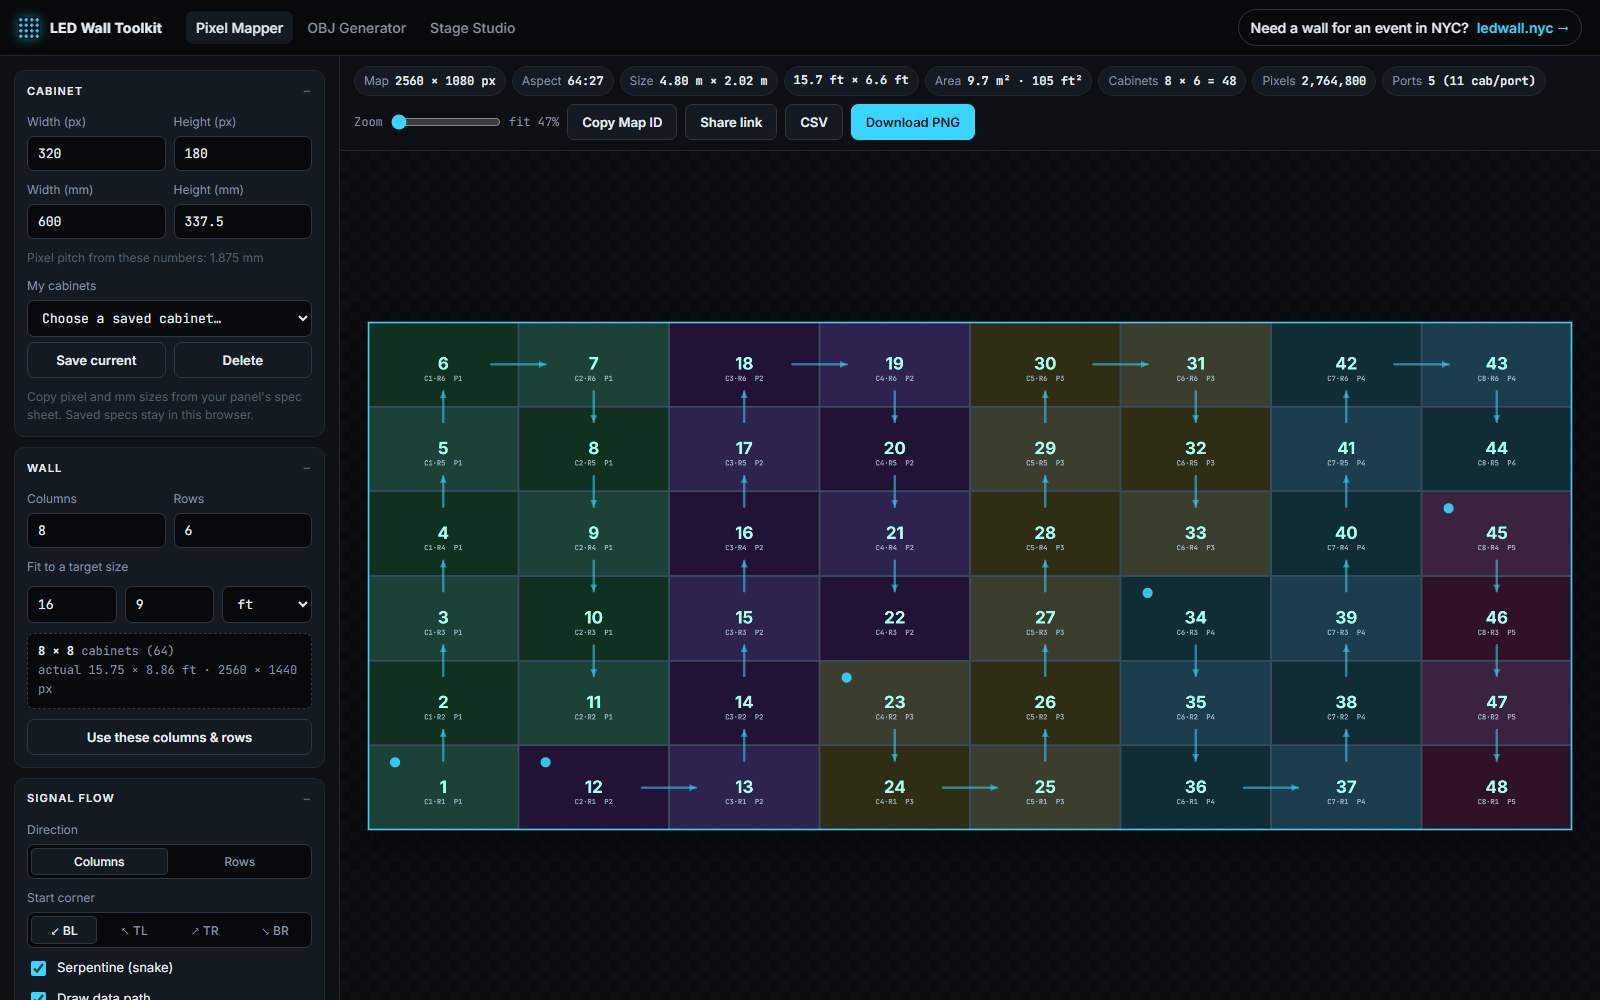
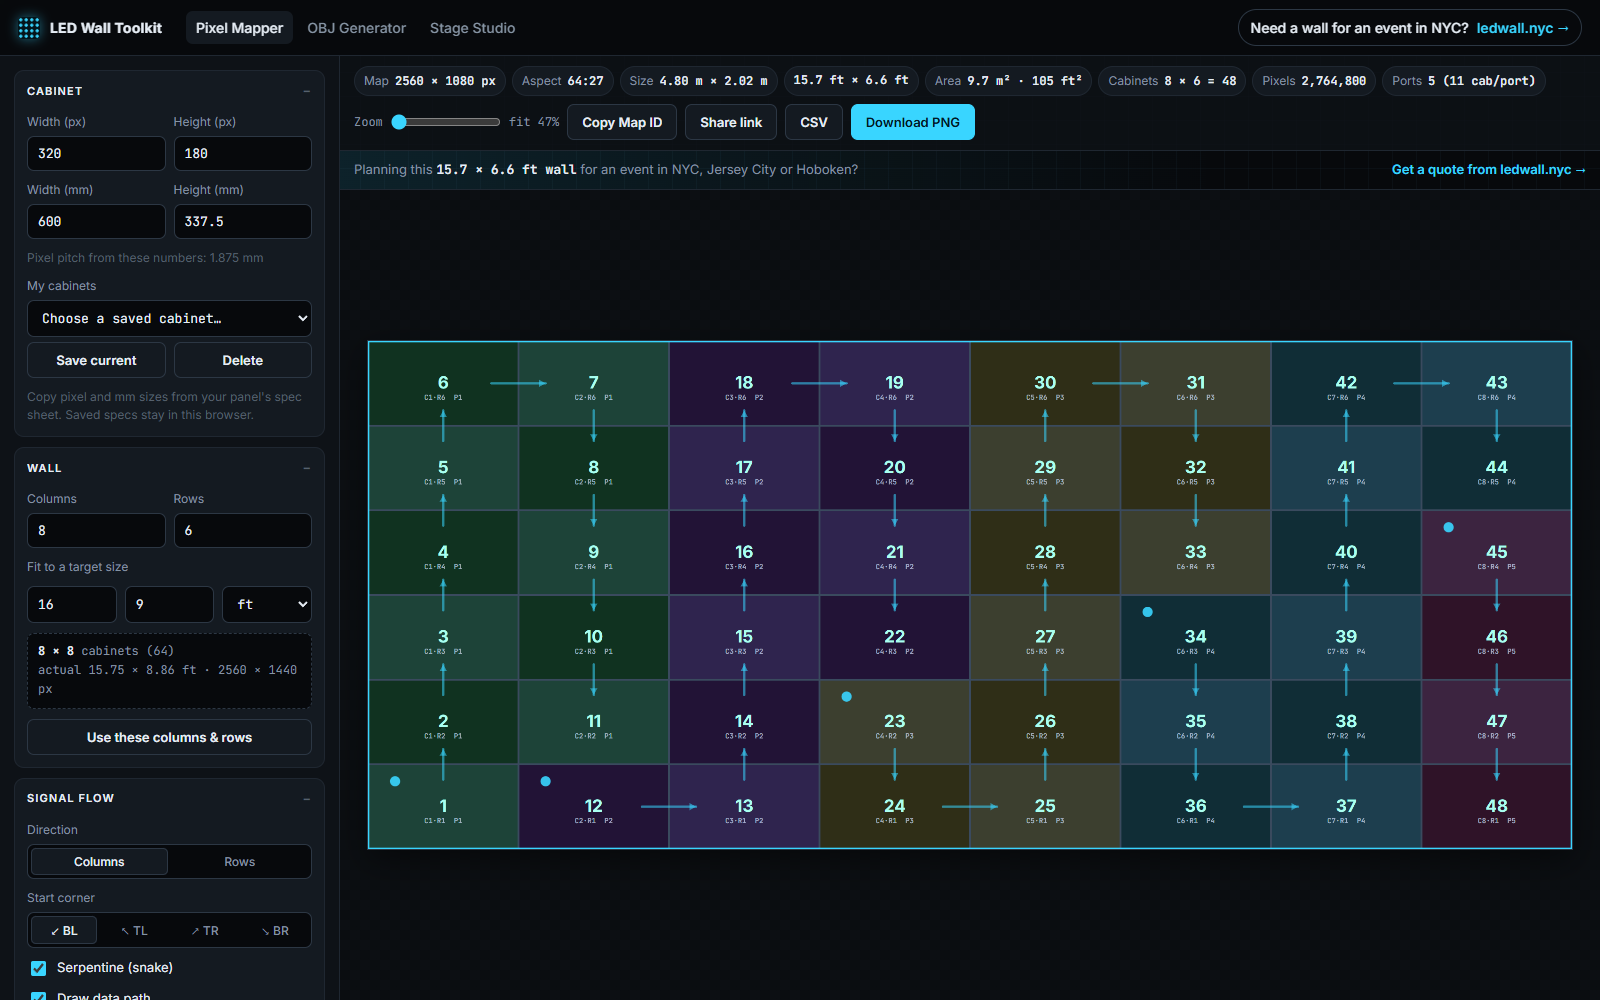
Fix stale OBJ exports, neutral file name, quote link in Pixel Mapper
- OBJ Generator: OBJ/MTL/ZIP downloads now rebuild from the current form,
  so changing units without pressing Generate no longer exports old units.
- Default model file name is led_wall.
- Pixel Mapper: link under the toolbar shows the planned wall size and
  points to ledwall.nyc/contact for NYC-area quotes.
- Refreshed README screenshot.

Claude-Session: https://claude.ai/code/session_01JyhWy7MXQNSgjwJ6siy76b

Changed region(s): [[0.2188, 0.31, 1.0, 0.868], [0.1875, 0.155, 0.5312, 0.186], [0.875, 0.155, 0.9688, 0.186]]

diff --git a/obj-generator.html b/obj-generator.html
@@ -107,7 +107,7 @@
     <details class="group" open>
       <summary>Export</summary>
       <div class="group-body">
-        <label class="field"><span>File name</span><input type="text" id="modelName" value="ledwall" placeholder="ledwall" spellcheck="false"></label>
+        <label class="field"><span>File name</span><input type="text" id="modelName" value="led_wall" placeholder="led_wall" spellcheck="false"></label>
         <label class="field"><span>OBJ units</span>
           <select id="coordSystem">
             <option value="mm">Millimeters (real scale)</option>
@@ -321,7 +321,7 @@
   // ---------- state ----------
   const state = {
     scene: null, camera: null, renderer: null, controls: null, grid: null,
-    mesh: null, objData: null, mtlData: null, modelName: 'ledwall',
+    mesh: null, objData: null, mtlData: null, modelName: 'led_wall',
     wireframeMode: false, textureUrl: null
   };
 
@@ -391,7 +391,7 @@
     const v = int ? parseInt($(id).value, 10) : parseFloat($(id).value);
     return Number.isFinite(v) ? Math.max(min, v) : fallback;
   }
-  const safeName = (s) => String(s || '').trim().replace(/[^\w.-]+/g, '_').replace(/^\.+/, '') || 'ledwall';
+  const safeName = (s) => String(s || '').trim().replace(/[^\w.-]+/g, '_').replace(/^\.+/, '') || 'led_wall';
 
   function getSettings() {
     const layoutType = getSeg(layoutSeg) === 'u-shape' ? 'u-shape' : 'flat';
@@ -425,7 +425,7 @@
     set('cols', s.cols, 4);
     set('rows', s.rows, 3);
     set('gap', s.gap, 0);
-    set('modelName', s.modelName, 'ledwall');
+    set('modelName', s.modelName, 'led_wall');
     const units = ['mm', 'm', 'in', 'ft', 'normalized'];
     $('coordSystem').value = units.includes(s.coordSystem) ? s.coordSystem : 'mm';
     setSeg(layoutSeg, s.layoutType === 'u-shape' ? 'u-shape' : 'flat');
@@ -724,16 +724,23 @@
     applyWireframe();
   });
 
+  // Exports always reflect the form as it is now, even if Generate wasn't pressed again.
+  function refreshExport() {
+    if (!state.objData) return false;
+    generateModel({ reframe: false });
+    return !!state.objData;
+  }
+
   $('downloadOBJ').addEventListener('click', () => {
-    if (!state.objData) return;
+    if (!refreshExport()) return;
     downloadBlob(new Blob([state.objData], { type: 'text/plain' }), `${state.modelName}.obj`);
   });
   $('downloadMTL').addEventListener('click', () => {
-    if (!state.mtlData) return;
+    if (!refreshExport()) return;
     downloadBlob(new Blob([state.mtlData], { type: 'text/plain' }), `${state.modelName}.mtl`);
   });
   $('downloadZIP').addEventListener('click', async () => {
-    if (!state.objData) return;
+    if (!refreshExport()) return;
     const enc = new TextEncoder();
     const name = state.modelName;
     const files = [

diff --git a/pixel-mapper.html b/pixel-mapper.html
@@ -22,6 +22,14 @@
     .warn { color: var(--warn); font-size: 12px; margin: 0; }
     .zoom { display: inline-flex; align-items: center; gap: 6px; color: var(--muted); font: 12px var(--mono); }
     .zoom input { width: 110px; }
+    .quote {
+      display: flex; flex-wrap: wrap; gap: 6px 14px; align-items: center; justify-content: space-between;
+      padding: 9px 14px; border-bottom: 1px solid var(--line); color: var(--muted); font-size: 13px;
+      background: linear-gradient(90deg, var(--accent-soft), transparent 70%);
+    }
+    .quote:hover { text-decoration: none; color: var(--text); }
+    .quote b { color: var(--text); font-family: var(--mono); font-weight: 600; }
+    .quote-go { color: var(--accent); font-weight: 600; white-space: nowrap; }
   </style>
 </head>
 <body>
@@ -199,6 +207,10 @@
       <button type="button" class="btn" id="dlCsv">CSV</button>
       <button type="button" class="btn primary" id="dlPng">Download PNG</button>
     </div>
+    <a class="quote" id="quote" href="https://ledwall.nyc/contact?utm_source=github&utm_medium=toolkit&utm_campaign=pixel-mapper" target="_blank" rel="noopener">
+      <span>Planning this <b id="quoteSize">wall</b> for an event in NYC, Jersey City or Hoboken?</span>
+      <span class="quote-go">Get a quote from ledwall.nyc →</span>
+    </a>
     <div class="viewport" id="viewport"><canvas id="map"></canvas></div>
   </section>
 </div>
@@ -594,6 +606,7 @@
       [`Days at ${s.dayHours} h`, `${(hours / s.dayHours).toFixed(2)} → ${Math.max(1, Math.ceil(hours / s.dayHours))}`]
     ]);
     $('brandScaleOut').textContent = `${s.brandScale.toFixed(2)}×`;
+    $('quoteSize').textContent = `${(mmW / MM_PER_FT).toFixed(1)} × ${(mmH / MM_PER_FT).toFixed(1)} ft wall`;
   }
 
   function fitPanel() {
